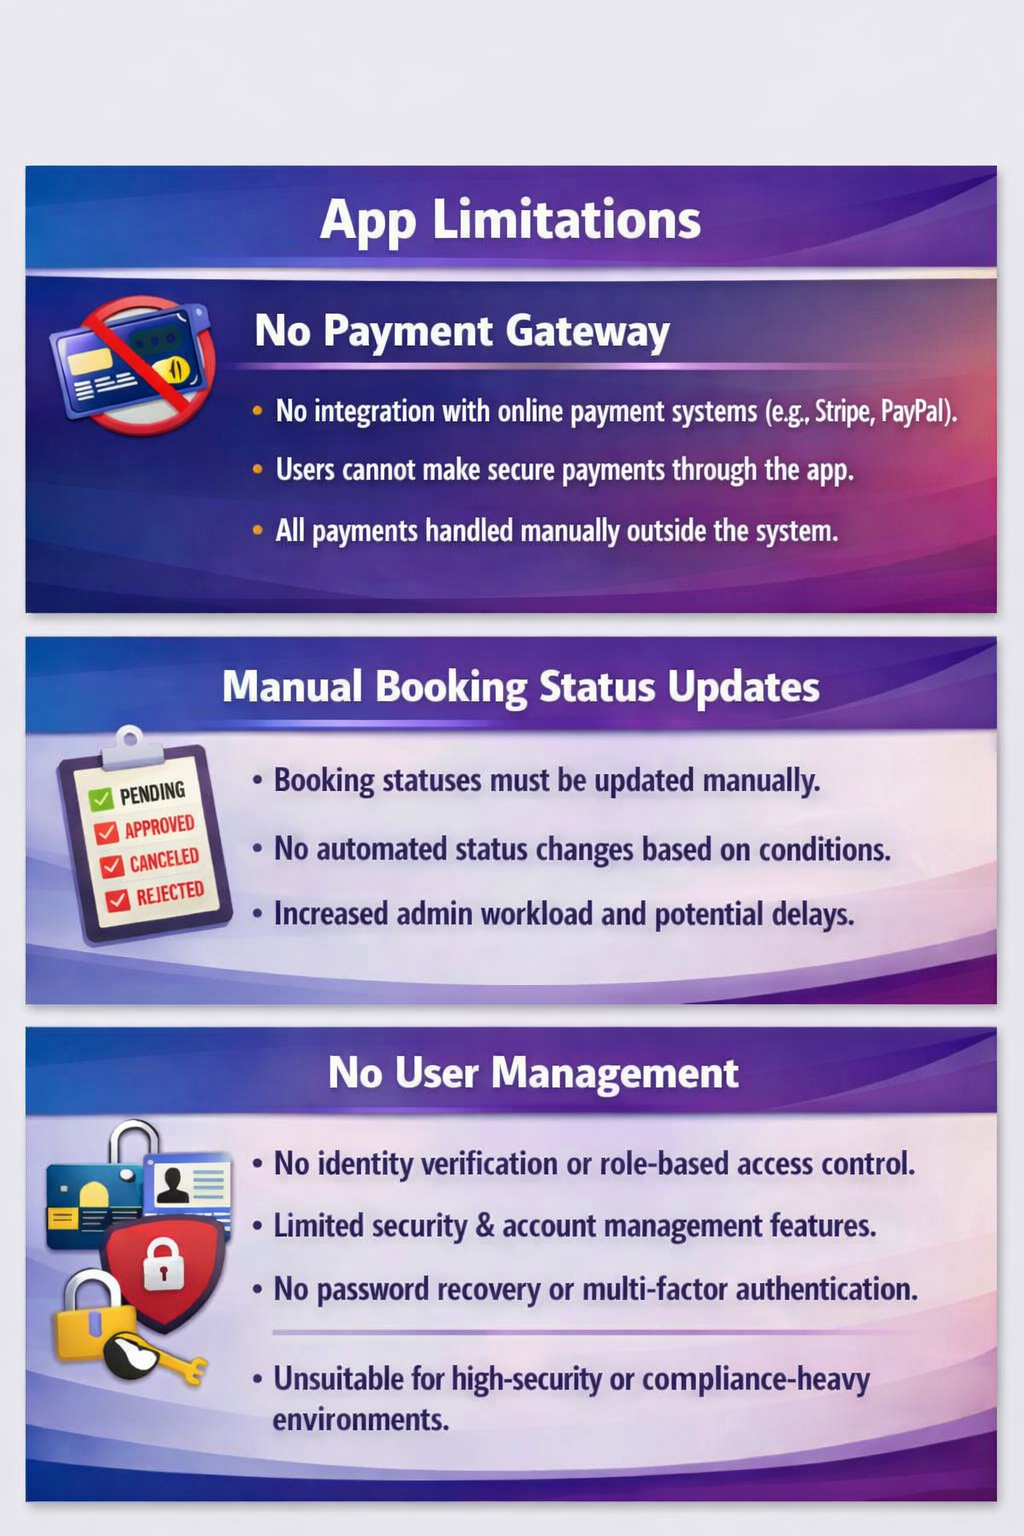
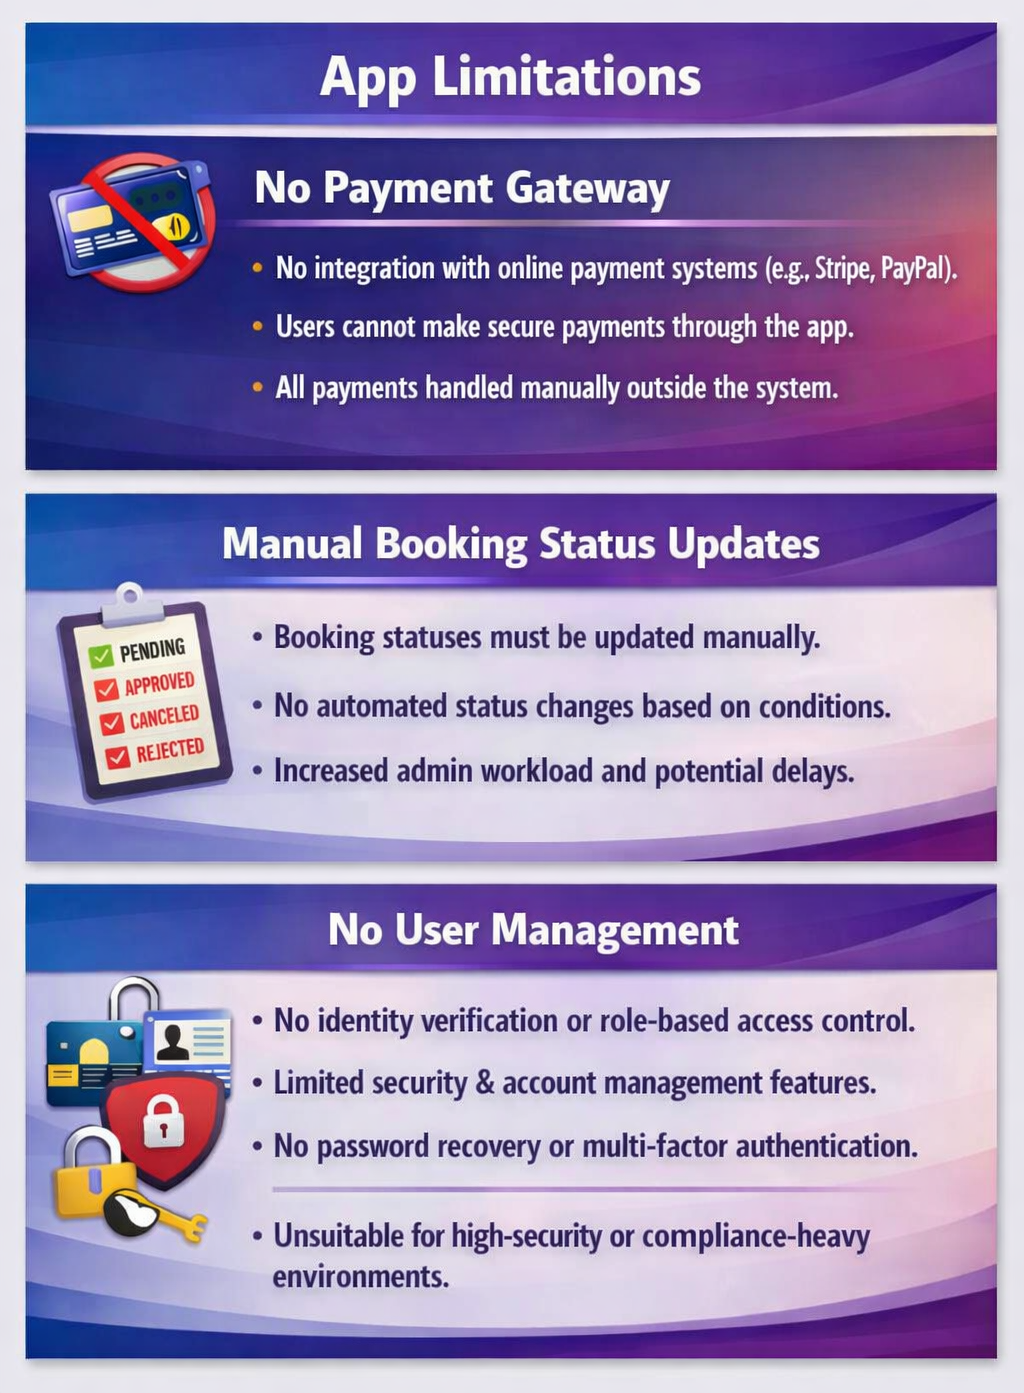
Fix enum

diff --git a/event-booking-app/src/components/EventForm.jsx b/event-booking-app/src/components/EventForm.jsx
@@ -89,7 +89,7 @@ function EventForm({ title, form, onChange, onSubmit, onFileChange }) {
         <div className="form-group">
           <select name="status" value={form.status} onChange={onChange}>
             <option value="OPEN">OPEN</option>
-            <option value="CANCELLED">CANCELLED</option>
+            <option value="CLOSED">CLOSED</option>
             <option value="DRAFT">DRAFT</option>
           </select>
         </div>